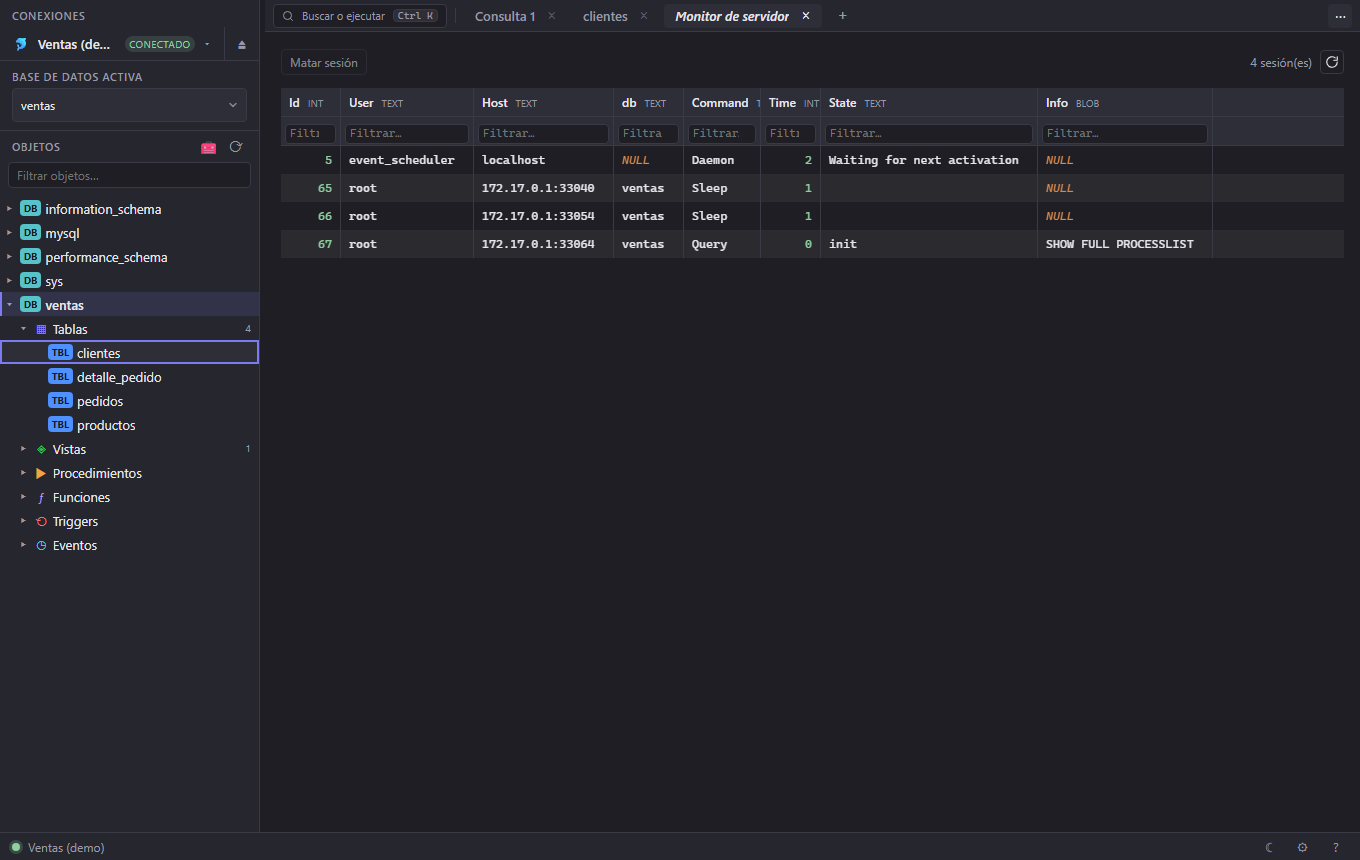
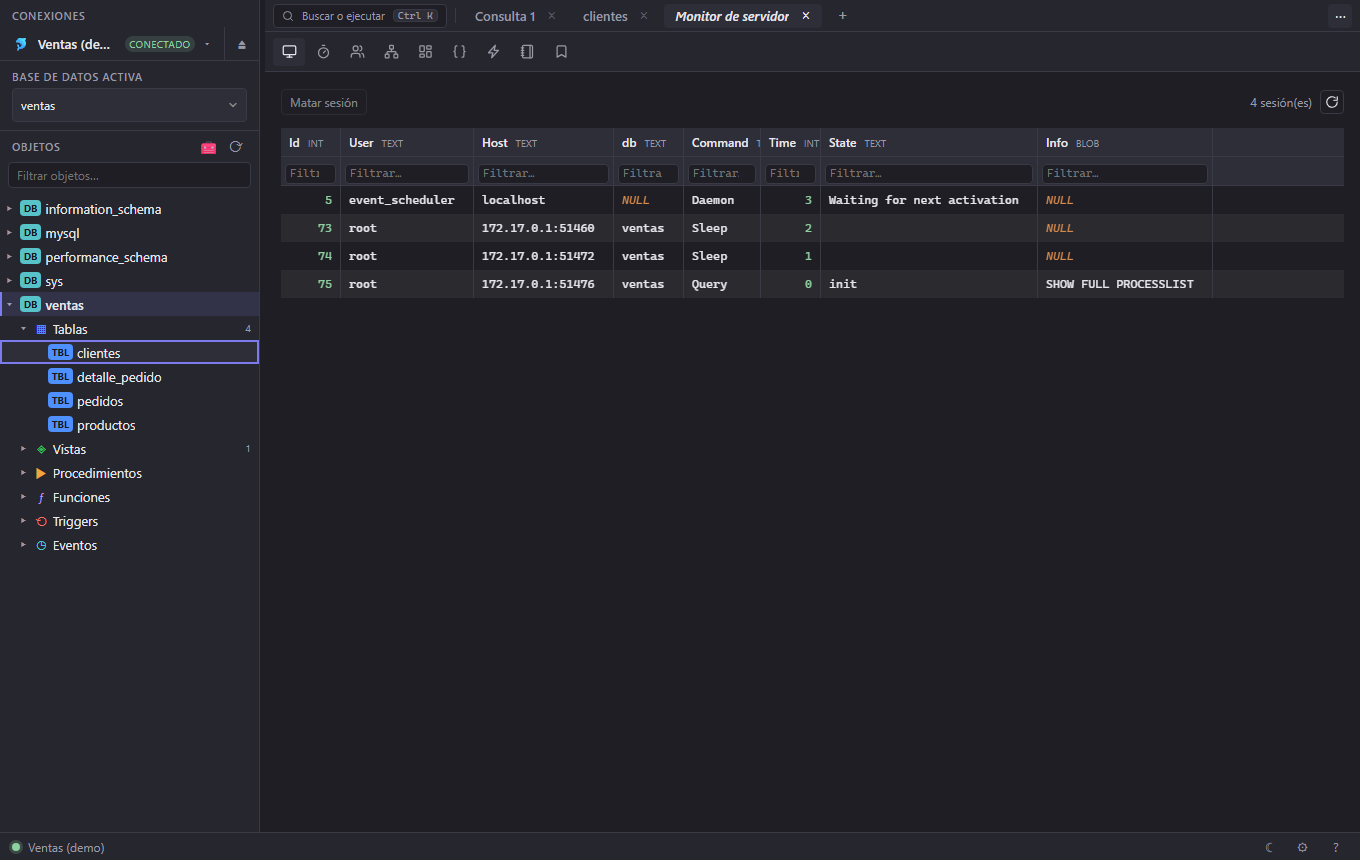
fix(frontend): the tool strip shows by default, and remembers being folded (refs #386)
Reported from the running app: connect, want the monitor or the notebook, and
there is nothing on screen offering them. The strip was folded at rest and the
only way in was a ⋯ at the far right of the tab bar — so the ribbon's one real
virtue went with it. You could SEE that nine tools existed without knowing to
look for them.

The strip is on by default now. That is 40 px against the ribbon's 68, in a
window where the chrome above the first row went from 397 px to 196 and the
data from 42 % to 74 %, so the discoverability is bought back at less than half
price. Folding it away is still one click, and it is now a preference rather
than a signal: the choice survives the session, and it has a name in Settings
("Barra de herramientas bajo las pestañas") so it can be found and undone in
words rather than by rediscovering a ⋯.

A settings blob written before this key existed gets the strip shown, which is
the right default for someone who has never seen it.

diff --git a/frontend/e2e/toolbar.spec.ts b/frontend/e2e/toolbar.spec.ts
@@ -24,7 +24,7 @@ const TOOLS = [
 ];
 
 describeEngine("sqlite", () => {
-  test("the strip is folded until asked, then every tool has a name and an icon", async ({
+  test("every tool in the strip has a name and an icon, and ⋯ folds it away", async ({
     app,
   }) => {
     const { page } = app;
@@ -32,10 +32,7 @@ describeEngine("sqlite", () => {
     await connect(app);
 
     const strip = page.getByRole("toolbar", { name: "Acciones" });
-    // Folded at rest: that is the whole point of the band being 32 px.
-    await expect(strip).toBeHidden();
-
-    await page.getByRole("button", { name: "Barra de herramientas", exact: true }).click();
+    // Shown by default: it is how someone finds out these nine exist at all.
     await expect(strip).toBeVisible();
 
     for (const name of TOOLS) {
@@ -51,6 +48,10 @@ describeEngine("sqlite", () => {
 
     // No stragglers: if a tool is added, this test should have to say so.
     await expect(strip.getByRole("button")).toHaveCount(TOOLS.length);
+
+    // And it folds away for anyone who wants the 40 px back.
+    await page.getByRole("button", { name: "Barra de herramientas", exact: true }).click();
+    await expect(strip).toBeHidden();
   });
 
   test("Snippets opens its panel from the strip", async ({ app }) => {
@@ -58,7 +59,6 @@ describeEngine("sqlite", () => {
     await app.open();
     await connect(app);
 
-    await page.getByRole("button", { name: "Barra de herramientas", exact: true }).click();
     await page
       .getByRole("toolbar", { name: "Acciones" })
       .getByRole("button", { name: "Snippets", exact: true })
@@ -115,7 +115,6 @@ describeEngine("sqlite", () => {
     const { page } = app;
     await app.open();
 
-    await page.getByRole("button", { name: "Barra de herramientas", exact: true }).click();
     const strip = page.getByRole("toolbar", { name: "Acciones" });
     for (const name of TOOLS) {
       await expect(

diff --git a/frontend/tests/components/SettingsPanel.test.tsx b/frontend/tests/components/SettingsPanel.test.tsx
@@ -98,13 +98,31 @@ describe("SettingsPanel", () => {
     expect(onSetHistoryLimit).toHaveBeenCalledWith(10);
   });
 
+  /** The checkbox on the row that reads `label` — there is more than one now. */
+  const checkbox = (label: string) =>
+    [...host!.querySelectorAll<HTMLLabelElement>("label.settings-check")]
+      .find((l) => l.textContent?.includes(label))!
+      .querySelector<HTMLInputElement>('input[type="checkbox"]')!;
+
   it("toggles check-updates-on-start", () => {
     const onSetSettings = vi.fn();
     mount({ settings: { ...DEFAULT_SETTINGS, checkUpdatesOnStart: true }, onSetSettings });
-    const check = host!.querySelector<HTMLInputElement>('input[type="checkbox"]')!;
+    const check = checkbox("Buscar actualizaciones");
     check.checked = false;
     check.dispatchEvent(new Event("change", { bubbles: true }));
     expect(onSetSettings).toHaveBeenCalledWith({ checkUpdatesOnStart: false });
+  });
+
+  // Issue #386: the strip is what tells you the tools exist, so hiding it is a
+  // decision that has to be findable — and reversible — in words.
+  it("toggles the tool strip", () => {
+    const onSetSettings = vi.fn();
+    mount({ settings: { ...DEFAULT_SETTINGS, toolStrip: true }, onSetSettings });
+    const check = checkbox("Barra de herramientas");
+    expect(check.checked).toBe(true);
+    check.checked = false;
+    check.dispatchEvent(new Event("change", { bubbles: true }));
+    expect(onSetSettings).toHaveBeenCalledWith({ toolStrip: false });
   });
 
   it("shows the injected app version and the core version from app.hello", async () => {

diff --git a/frontend/src/App.tsx b/frontend/src/App.tsx
@@ -362,8 +362,6 @@ export function App() {
   // "all" is the full palette (Mod+K); "objects" scopes it to the connection's
   // tables/views (Mod+P), for a quick go-to-object jump.
   const [paletteMode, setPaletteMode] = createSignal<"all" | "objects" | "snippets">("all");
-  /** The icon-only tool strip under the tabs, folded away by default (#386). */
-  const [toolsOpen, setToolsOpen] = createSignal(false);
   const [loadedObjects, setLoadedObjects] = createSignal<TreeNode[]>([]);
 
   // Bumped by Ctrl/Cmd+F to open the SQL editor's find panel (see SqlEditor).
@@ -2397,16 +2395,16 @@ export function App() {
             <span class="tabbar-spacer" />
             <button
               class="tab-tools"
-              aria-expanded={toolsOpen()}
+              aria-expanded={settings().toolStrip}
               title={t("toolbar.tools")}
               aria-label={t("toolbar.tools")}
-              onClick={() => setToolsOpen((v) => !v)}
+              onClick={() => patchSettings({ toolStrip: !settings().toolStrip })}
             >
               ⋯
             </button>
           </div>
 
-          <Show when={toolsOpen()}>
+          <Show when={settings().toolStrip}>
             <div class="toolstrip" role="toolbar" aria-label={t("toolbar.actions")}>
               <For each={TOOL_CATALOG}>
                 {(item) => (

diff --git a/frontend/tests/components/App.test.tsx b/frontend/tests/components/App.test.tsx
@@ -41,7 +41,7 @@ describe("App shell", () => {
 // The navigation band (issue #386): the ribbon of 12 destinations is gone, and
 // what replaced it has to actually reach the same places.
 describe("App — one navigation band", () => {
-  it("has no ribbon; the launcher opens the palette and ⋯ unfolds the tools", () => {
+  it("has no ribbon; the launcher opens the palette and ⋯ folds the tools away", () => {
     mount();
     expect(host!.querySelector(".apptoolbar")).toBeNull();
 
@@ -51,12 +51,14 @@ describe("App — one navigation band", () => {
     expect(host!.querySelector(".cmdk")).not.toBeNull();
     document.dispatchEvent(new KeyboardEvent("keydown", { key: "Escape" }));
 
+    // The strip shows by default: it is how someone finds out the nine tools
+    // are there at all. ⋯ folds it away, and that choice is remembered.
     const tools = host!.querySelector(".tab-tools") as HTMLButtonElement;
-    expect(host!.querySelector(".toolstrip")).toBeNull();
-    tools.click();
     expect(host!.querySelectorAll(".toolstrip-btn").length).toBe(9);
     tools.click();
     expect(host!.querySelector(".toolstrip")).toBeNull();
+    tools.click();
+    expect(host!.querySelectorAll(".toolstrip-btn").length).toBe(9);
   });
 
   it("does not spell the connection out on the tab", () => {

diff --git a/frontend/src/utils/settings.ts b/frontend/src/utils/settings.ts
@@ -16,12 +16,23 @@ export interface Settings {
   slowThresholdMs: number;
   /** Check GitHub Releases for a newer version at startup (consumed by #182). */
   checkUpdatesOnStart: boolean;
+  /**
+   * Show the strip of tool icons under the tabs (issue #386).
+   *
+   * On by default. The ribbon it replaced was 68 px and duplicated the tab bar,
+   * but it did carry one thing worth keeping: you could SEE that the monitor,
+   * the notebook and the snippets existed without knowing to look. The strip is
+   * that, at 40 px and icons only, and folding it away is a decision the user
+   * makes once — which is why it lives here and not in a signal.
+   */
+  toolStrip: boolean;
 }
 
 export const DEFAULT_SETTINGS: Settings = {
   gridDensity: "normal",
   slowThresholdMs: 1000,
   checkUpdatesOnStart: true,
+  toolStrip: true,
 };
 
 /** Bounds for the slow-query threshold (ms): 0 (off) up to one hour. */
@@ -69,6 +80,8 @@ export function parseSettings(raw: string | null | undefined): Settings {
       typeof obj.checkUpdatesOnStart === "boolean"
         ? obj.checkUpdatesOnStart
         : DEFAULT_SETTINGS.checkUpdatesOnStart,
+    toolStrip:
+      typeof obj.toolStrip === "boolean" ? obj.toolStrip : DEFAULT_SETTINGS.toolStrip,
   };
 }
 

diff --git a/frontend/e2e/media/screenshots.spec.ts b/frontend/e2e/media/screenshots.spec.ts
@@ -131,17 +131,11 @@ test("capture the published screenshots", async ({ page }) => {
       ["Monitor de servidor", "screenshot-monitor.png", /sesi[óo]n\(es\)/i],
       ["Usuarios y permisos", "screenshot-users.png", /usuario\(s\)/i],
     ];
-    // The tools live behind the ⋯ strip now (#386), which is folded at rest —
-    // and folded again before each shot, so the images keep the same baseline
-    // chrome the app opens with.
-    const toolStrip = page.getByRole("button", { name: "Barra de herramientas", exact: true });
     for (const [button, file, ready] of tools) {
-      await toolStrip.click();
       await page
         .getByRole("toolbar", { name: "Acciones" })
         .getByRole("button", { name: button, exact: true })
         .click();
-      await toolStrip.click();
       await expect(page.getByText(ready).first()).toBeVisible({ timeout: 30_000 });
       await shot(file);
       // Escape, not a "Cerrar" button: the panels stopped printing one when the

diff --git a/frontend/tests/utils/settings.test.ts b/frontend/tests/utils/settings.test.ts
@@ -46,7 +46,12 @@ describe("parseSettings", () => {
   });
 
   it("round-trips a full settings object", () => {
-    const s = { gridDensity: "compact" as const, slowThresholdMs: 1200, checkUpdatesOnStart: false };
+    const s = {
+      gridDensity: "compact" as const,
+      slowThresholdMs: 1200,
+      checkUpdatesOnStart: false,
+      toolStrip: false,
+    };
     expect(parseSettings(serializeSettings(s))).toEqual(s);
   });
 
@@ -55,6 +60,9 @@ describe("parseSettings", () => {
     expect(out.gridDensity).toBe("compact");
     expect(out.slowThresholdMs).toBe(DEFAULT_SETTINGS.slowThresholdMs);
     expect(out.checkUpdatesOnStart).toBe(DEFAULT_SETTINGS.checkUpdatesOnStart);
+    // A blob written before the tool strip existed gets it shown, not hidden:
+    // the strip is how someone finds out the tools are there (issue #386).
+    expect(out.toolStrip).toBe(true);
   });
 
   it("rejects ill-typed fields, clamping/falling back", () => {

diff --git a/frontend/e2e/critical-path.spec.ts b/frontend/e2e/critical-path.spec.ts
@@ -22,7 +22,6 @@ describeAllEngines(["sqlite", "postgres", "mysql", "informix"], (engineName) => 
     // Before connecting the interface says so, and the tools are dead. They live
     // in the ⋯ strip now (#386), which is folded until asked.
     await expect(app.page.getByText("Sin conexión")).toBeVisible();
-    await app.page.getByRole("button", { name: "Barra de herramientas", exact: true }).click();
     const monitor = app.page
       .getByRole("toolbar", { name: "Acciones" })
       .getByRole("button", { name: "Monitor de servidor", exact: true });
@@ -217,7 +216,6 @@ describeAllEngines(["sqlite", "postgres", "mysql", "informix"], (engineName) => 
     await disconnect(app.page);
 
     await expect(app.page.getByText("Sin conexión")).toBeVisible();
-    await app.page.getByRole("button", { name: "Barra de herramientas", exact: true }).click();
     await expect(
       app.page
         .getByRole("toolbar", { name: "Acciones" })

diff --git a/frontend/src/components/SettingsPanel.tsx b/frontend/src/components/SettingsPanel.tsx
@@ -132,6 +132,14 @@ export function SettingsPanel(props: {
               </For>
             </div>
           </div>
+          <label class="settings-row settings-check">
+            <input
+              type="checkbox"
+              checked={props.settings.toolStrip}
+              onChange={(e) => props.onSetSettings({ toolStrip: e.currentTarget.checked })}
+            />
+            <span class="settings-label">Barra de herramientas bajo las pestañas</span>
+          </label>
           <div class="settings-row">
             <span class="settings-label">Densidad del grid</span>
             <div class="settings-choice" role="radiogroup" aria-label="Densidad del grid">

diff --git a/frontend/e2e/media/video.spec.ts b/frontend/e2e/media/video.spec.ts
@@ -167,11 +167,7 @@ test("record the demo video", async ({ page }) => {
     await beat(700);
 
     // --- 4. Tools ----------------------------------------------------------
-    // Unfolded once here and left open for both tools: the ⋯ strip replaced the
-    // ribbon in #386, and folding it between beats would only add a flicker.
-    const toolStrip = page.getByRole("button", { name: "Barra de herramientas", exact: true });
     const ribbon = page.getByRole("toolbar", { name: "Acciones" });
-    await toolStrip.click();
 
     await caption("Diagrama ER con las llaves foráneas reales");
     await ribbon.getByRole("button", { name: "Diagrama ER", exact: true }).click();

diff --git a/frontend/tests/utils/settingsStore.test.ts b/frontend/tests/utils/settingsStore.test.ts
@@ -22,7 +22,12 @@ describe("settingsStore", () => {
 
   it("persists and reloads a settings object", async () => {
     const { loadSettings, saveSettings } = await freshModule();
-    const s: Settings = { gridDensity: "compact", slowThresholdMs: 900, checkUpdatesOnStart: false };
+    const s: Settings = {
+      gridDensity: "compact",
+      slowThresholdMs: 900,
+      checkUpdatesOnStart: false,
+      toolStrip: false,
+    };
     saveSettings(s);
     expect(localStorage.getItem(KEY)).toBeTruthy();
     expect(loadSettings()).toEqual(s);

diff --git a/frontend/e2e/snippets.spec.ts b/frontend/e2e/snippets.spec.ts
@@ -99,7 +99,6 @@ describeEngine("sqlite", () => {
     // one test that walks in through the front door.
     await connect(app);
 
-    await page.getByRole("button", { name: "Barra de herramientas", exact: true }).click();
     await page
       .getByRole("toolbar", { name: "Acciones" })
       .getByRole("button", { name: "Snippets", exact: true })
